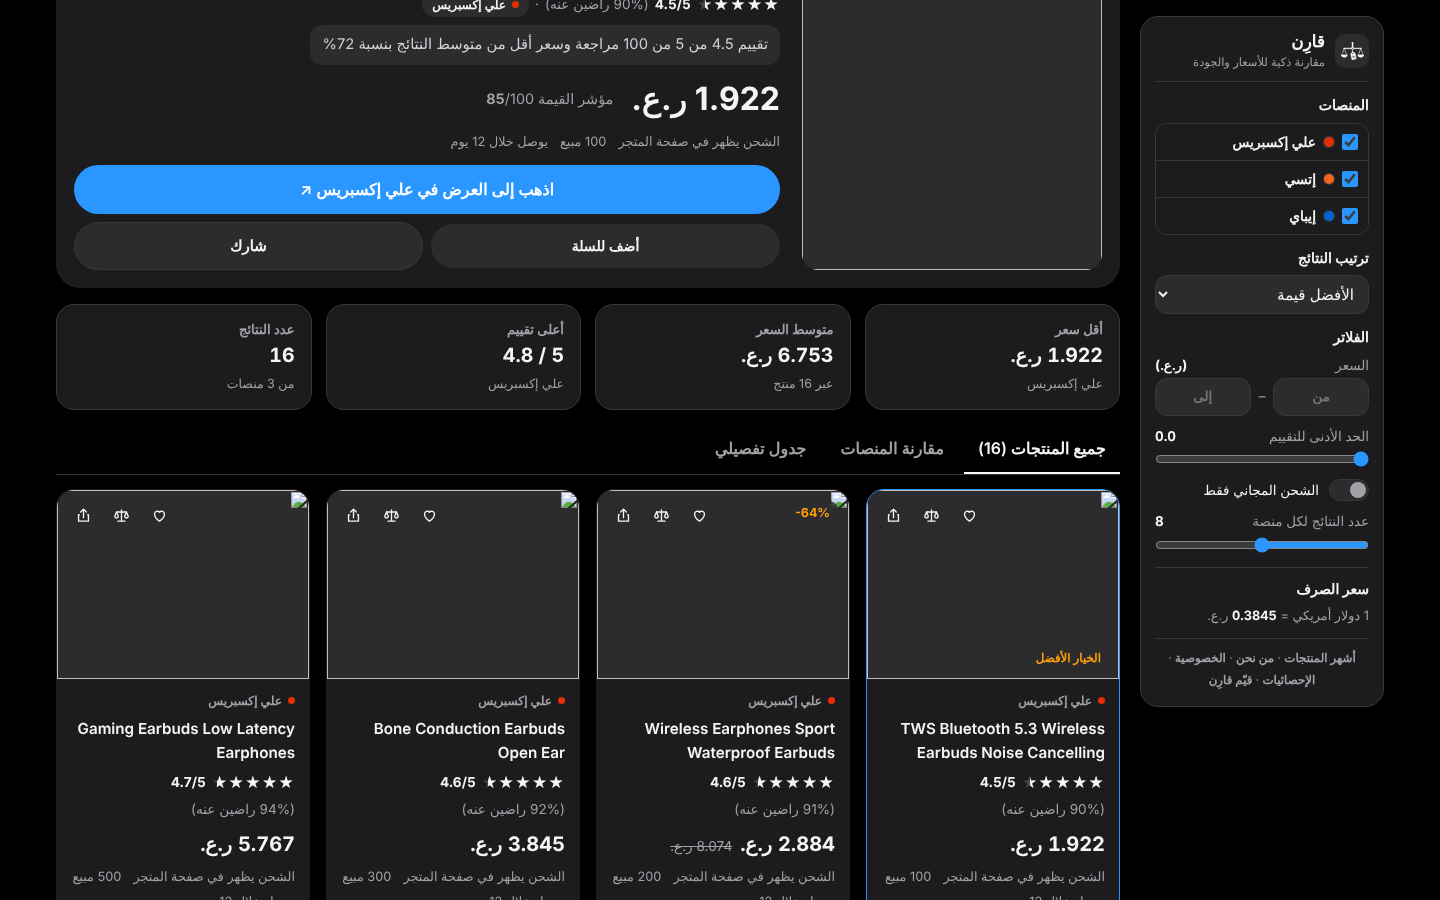
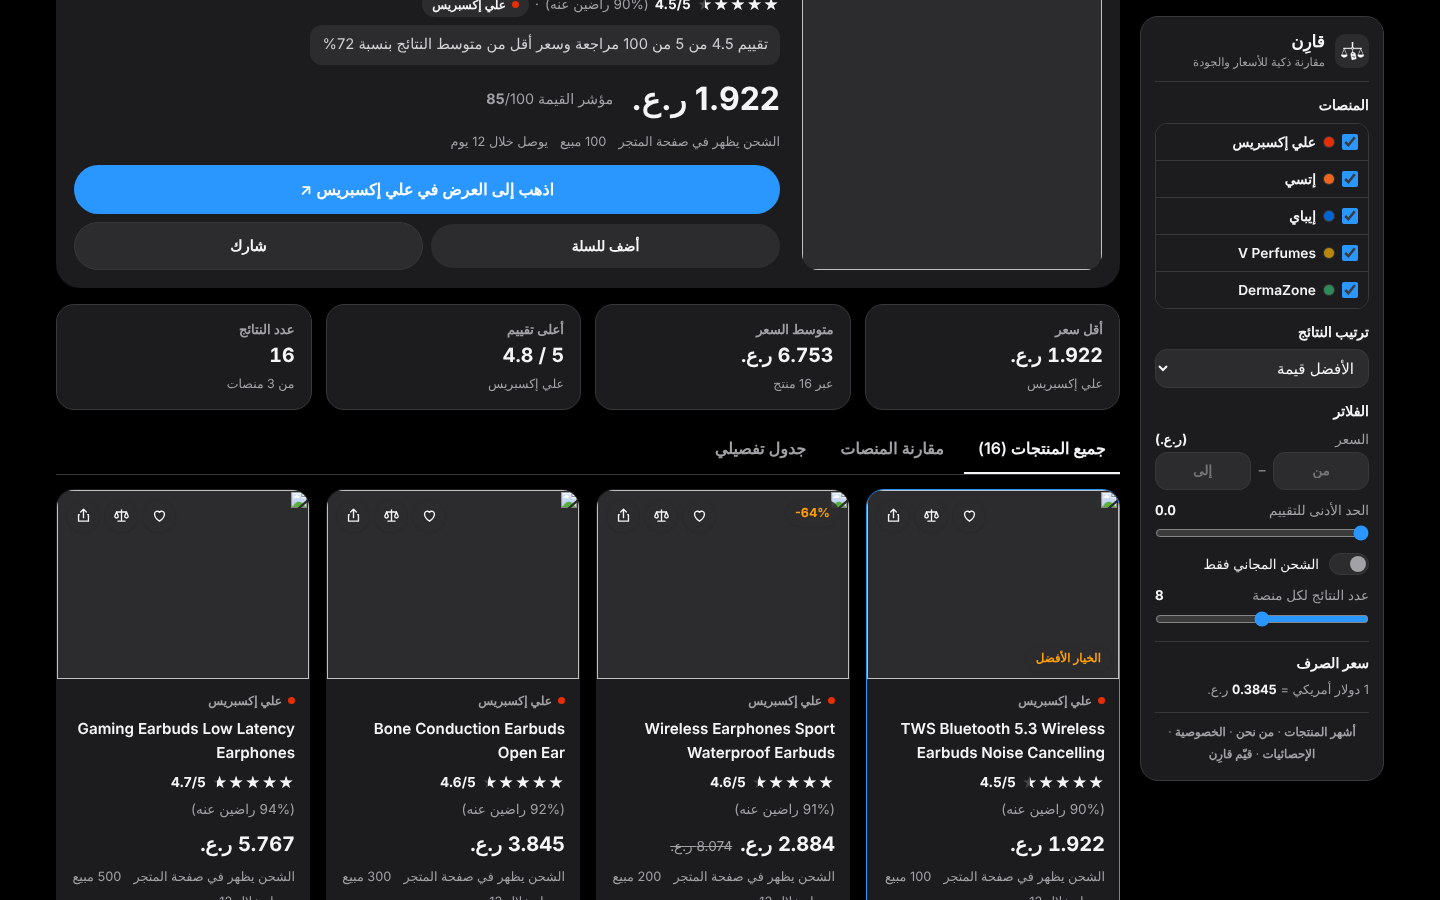
V Perfumes and DermaZone as real stores: daily product files from their public listings, searched like the others (affiliate links); hide empty partner baskets
Claude-Session: https://claude.ai/code/session_01JPcJJz9RvUid6aaScUD6z8

Changed region(s): [[0.7812, 0.28, 0.9688, 0.8711], [0.8125, 0.4356, 0.8438, 0.4667], [0.7812, 0.4667, 0.8125, 0.4978]]

diff --git a/index.html b/index.html
@@ -927,6 +927,11 @@ table.dt { min-width: 0; font-size: .76rem; }
                   url: q => 'https://www.etsy.com/search?q=' + qp(q) },
     ebay:       { name: 'إيباي',       color: '#0064D2', text: '#FFFFFF', bar: '#0064D2', tagline: 'جديد ومستعمل من العالم',
                   url: q => 'https://www.ebay.com/sch/i.html?_nkw=' + qp(q) },
+    // متاجر شريكة عن طريق Admitad: منتجاتها من ملفات نبنيها كل يوم (tools/partners/build.js)
+    vperfumes:  { name: 'V Perfumes',  color: '#B8860B', text: '#FFFFFF', bar: '#B8860B', tagline: 'عطور أصلية من عُمان',
+                  url: () => 'https://wbbsv.com/g/ax1gp3o9dz683a5815ddbe59cac899/?ulp=' + encodeURIComponent('https://www.vperfumes.com/om-en/collection/best-sellers') },
+    dermazone:  { name: 'DermaZone',   color: '#2E8B57', text: '#FFFFFF', bar: '#2E8B57', tagline: 'عناية بالبشرة ومنتجات كورية',
+                  url: q => 'https://bjpql.com/g/03how5od0x683a5815dd238e05a71e/?ulp=' + encodeURIComponent('https://www.dermazonestore.com/search?q=' + qp(q)) },
   };
   const KEYS = Object.keys(PLATFORMS);
 
@@ -1597,6 +1602,9 @@ table.dt { min-width: 0; font-size: .76rem; }
     "طقم كنب": "sofa set", "دله كهربائيه": "electric arabic coffee maker", "فرشات سياره": "car floor mats", "دعاسات": "car floor mats", "دواسات سياره": "car floor mats",
     "ليتات": "led lights", "ليتات سياره": "car led lights", "لعبه سياره": "toy car", "سياره لعبه": "toy car", "عطر عربي": "arabic perfume", "عطور عربيه": "arabic perfume",
     "حامل مصحف": "quran stand", "عطر رجالي فرنسي": "men perfume", "عطر فرنسي رجالي": "men perfume", "عطر نسائي فرنسي": "women perfume", "لعبه تعليميه": "educational toys", "العاب تعليميه": "educational toys", "ليت": "led lights",
+    "ديور": "dior", "عطر ديور": "dior perfume", "شانيل": "chanel", "سوفاج": "sauvage", "ارماني": "armani", "فرزاتشي": "versace", "فيرساتشي": "versace", "توم فورد": "tom ford",
+    "هوجو بوس": "hugo boss", "مونت بلانك": "montblanc", "بربري": "burberry", "كارولينا هيريرا": "carolina herrera", "رصاصي": "rasasi", "اجمل": "ajmal", "ارماف": "armaf", "ديفيدوف": "davidoff",
+    "سيرافي": "cerave", "لاروش بوزيه": "la roche posay", "ميديكيوب": "medicube", "كوزركس": "cosrx", "ذا اورديناري": "the ordinary", "بيوديرما": "bioderma",
     "لطافه": "lattafa", "عطر لطافه": "lattafa perfume", "كارتير": "cartier", "كارتيير": "cartier", "اوميغا": "omega", "اوميجا": "omega", "لويس فيتون": "louis vuitton", "لوي فيتون": "louis vuitton",
     "قوتشي": "gucci", "غوتشي": "gucci", "جوتشي": "gucci", "قوچي": "gucci", "راي بان": "ray-ban", "ريبان": "ray-ban", "طياره درون": "drone", "طياره تصوير": "camera drone",
     "اقلام ملونه": "colored pencils", "الوان خشبيه": "colored pencils", "اواني طبخ": "cookware set", "بن مختص": "specialty coffee beans", "قهوه مختصه": "specialty coffee beans",
@@ -1799,6 +1807,51 @@ table.dt { min-width: 0; font-size: .76rem; }
     }));
   }
   let etsyLive = false;
+
+  // ================= المتاجر الشريكة (V Perfumes و DermaZone) =================
+  const PARTNER_FEEDS = {
+    vperfumes: { file: 'data/p/vperfumes.json', perUsd: () => OMR_PER_USD, aff: 'https://wbbsv.com/g/ax1gp3o9dz683a5815ddbe59cac899/',
+      gate: /(عطر|عطور|عود|دهن|بخور|مبخر|مسك|perfume|parfum|fragrance|cologne|\boud\b|bakhoor|attar|\bmusk|eau de)/i,
+      generic: /^(perfumes?|fragrances?|scents?|parfums?|colognes?|smell)$/ },
+    dermazone: { file: 'data/p/dermazone.json', perUsd: () => 3.75, aff: 'https://bjpql.com/g/03how5od0x683a5815dd238e05a71e/',
+      gate: /(كريم|سيروم|واقي|مرطب|غسول|بشر|تونر|ماسك|فيتامين|كولاجين|مكمل|حب الشباب|skin|serum|sunscreen|sun ?block|spf|moistur|cleanser|toner|face mask|vitamin|collagen|supplement|cerave|la roche|bioderma|vichy|ordinary|cosrx|korean)/i,
+      generic: /^(products?|care|cream|original)$/ },
+  };
+  const P_STOP = new Set(['for', 'the', 'and', 'with', 'of', 'an', 'in', 'on', 'to', 'best', 'cheap', 'original', 'new', 'buy']);
+  const P_SYN = { men: '(\\bmen\\b|\\bman\\b|for him|homme|\\bmale\\b)', women: '(women|woman|for her|femme|female|ladies)', oil: '(oil|concentrated|attar|dehn)',
+    bakhoor: '(bakhoor|bukhoor|bakhour|incense|bakhoor set)', musk: '(musk|musc)', oud: '(\\boud|oudh|aoud)', sunscreen: '(sunscreen|sun ?block|sun ?screen|spf|واقي)',
+    moisturizer: '(moisturi[sz]|مرطب|hydrat)', cleanser: '(cleans|غسول|wash)', serum: '(serum|سيروم)' };
+  const partnerData = {};
+  // أسماء الماركات في كل متجر شريك (ملف صغير) عشان نعرف إن «ديور» أو «سيرافي» تخص متجر معيّن
+  let partnerIndex = null;
+  const partnerIndexP = fetch('data/p/index.json').then(r => r.ok ? r.json() : null).then(d => (partnerIndex = d)).catch(() => null);
+  const loadPartner = k => partnerData[k] || (partnerData[k] = fetch(PARTNER_FEEDS[k].file).then(r => r.ok ? r.json() : null).catch(() => null));
+  async function fetchPartner(k, query, limit) {
+    const F = PARTNER_FEEDS[k], en = (toEnglish(query) || query).toLowerCase(), ar = normalize(query);
+    await partnerIndexP;
+    const brands = partnerIndex && partnerIndex[k] && partnerIndex[k].brands || [];
+    const brandHit = en.split(/[^a-z0-9]+/).some(w => w.length > 3 && brands.some(b => b.split(/[^a-z0-9]+/).includes(w)));
+    if (!F.gate.test(query) && !F.gate.test(en) && !brandHit) return [];
+    const d = await loadPartner(k);
+    if (!d || !Array.isArray(d.items)) return [];
+    const toks = en.split(/[^a-z0-9]+/).filter(w => w.length > 1 && !P_STOP.has(w) && !F.generic.test(w));
+    const res = toks.map(w => new RegExp(P_SYN[w] || ('\\b' + w.replace(/[.*+?^${}()|[\]\\]/g, '\\$&')), 'i'));
+    const arToks = /[\u0600-\u06FF]/.test(ar) ? ar.split(' ').map(w => w.replace(/^ال(?=..)/, '')).filter(w => w.length > 1) : [];
+    const out = [];
+    for (const [t, price, img, url, tags] of d.items) {
+      const text = t + ' | ' + tags;
+      const okEn = res.every(r => r.test(text));
+      const okAr = k === 'dermazone' && arToks.length && arToks.every(w => normalize(text).includes(w));
+      if (!(okEn || okAr)) continue;
+      const usd = price / F.perUsd();
+      out.push({ platform: k, title: t, price: usd, unrated: true, rating: PRIOR_RATING, reviews: 0,
+        url: safeUrl(F.aff + '?ulp=' + encodeURIComponent(url)), image: safeUrl(img) || placeholder('🛍', makeRng(k, t)),
+        original: null, orders: null, shipping: '', freeShip: false, nativePrice: null, real: true,
+        shipCost: null, total: usd, score: 0, adj: 0, badges: [] });
+      if (out.length >= Math.max(limit, 40)) break;
+    }
+    return out;
+  }
 
   // صور علي إكسبرس أحيانًا تبدأ بـ http:// أو // فنحوّلها إلى https
   const fixImg = u => typeof u === 'string' ? u.trim().replace(/^\/\//, 'https://').replace(/^http:\/\//, 'https://') : '';
@@ -2570,14 +2623,6 @@ table.dt { min-width: 0; font-size: .76rem; }
   function clearPrice() { state.priceMin = state.priceMax = null; $('priceMin').value = ''; $('priceMax').value = ''; priceBox(); render(); }
   // متاجر شريكة (Admitad): تطلع لما يكون البحث من نوعها، برابط تسويق بالعمولة
   const PARTNERS = [
-    { name: 'V Perfumes', dot: '#B8860B', test: /(عطر|عطور|عود|دهن|بخور|مبخر|مسك|perfume|parfum|fragrance|cologne|\boud\b|bakhoor|attar|\bmusk)/i,
-      line: 'عطور أصلية من متجر V Perfumes في عُمان، بالريال العماني', base: 'https://wbbsv.com/g/ax1gp3o9dz683a5815ddbe59cac899/',
-      target: (q, en) => { const loc = LANG === 'ar' ? 'om-ar' : 'om-en', t = q + ' ' + en;
-        const cat = /بخور|مبخر|bakhoor|incense/i.test(t) ? 'category/bakhoor-set' : /دهن|oil|attar/i.test(t) ? 'category/perfume-oils'
-          : /نسائ|نساء|women|ladies|female/i.test(t) ? 'category/perfumes-for-women' : /رجال|men\b|male/i.test(t) ? 'category/perfumes-for-men' : 'collection/best-sellers';
-        return `https://www.vperfumes.com/${loc}/${cat}`; } },
-    { name: 'DermaZone', dot: '#2E8B57', test: /(كريم|سيروم|واقي شمس|واقي الشمس|مرطب|غسول|بشره|بشرة|حبوب الوجه|skin ?care|serum|sunscreen|moisturi[sz]er|cleanser|cerave|la roche|bioderma|vichy|the ordinary)/i,
-      line: 'منتجات عناية بالبشرة أصلية من DermaZone', base: 'https://bjpql.com/g/03how5od0x683a5815dd238e05a71e/' },
     { name: 'Woodestic', dot: '#8B5A2B', test: /(خشب|خشبي|wooden|\bwood\b)/i,
       line: 'ساعات ونظارات وإكسسوارات خشب من Woodestic', base: 'https://naiawork.com/g/do86ucnzhx683a5815ddc586cc6aee/' },
   ];
@@ -3005,6 +3050,9 @@ table.dt { min-width: 0; font-size: .76rem; }
       } else if (k === 'ebay' && EBAY_API) {
         try { results[k] = await fetchEbay(query, FETCH_N); }
         catch (e) { console.warn(e); results[k] = []; }  // ما نعرض منتجات مزيّفة باسم إيباي
+      } else if (PARTNER_FEEDS[k]) {
+        try { results[k] = await fetchPartner(k, query, FETCH_N); }
+        catch (e) { results[k] = []; }
       } else results[k] = [];
       const row = $('st-' + k);
       if (row && id === searchId) row.innerHTML = `<span class="ok">✓</span>${PLATFORMS[k].name}: ${results[k].length} منتج`;
@@ -3034,7 +3082,7 @@ table.dt { min-width: 0; font-size: .76rem; }
     await Promise.all(KEYS.map(async k => {
       try {
         results[k] = k === 'aliexpress' ? await fetchAli(query, FETCH_N) : k === 'etsy' ? await fetchEtsy(query, FETCH_N)
-          : (k === 'ebay' && EBAY_API) ? await fetchEbay(query, FETCH_N) : [];
+          : (k === 'ebay' && EBAY_API) ? await fetchEbay(query, FETCH_N) : PARTNER_FEEDS[k] ? await fetchPartner(k, query, FETCH_N) : [];
       } catch (e) { results[k] = []; }
     }));
     const all = KEYS.flatMap(k => results[k]);
@@ -3085,7 +3133,7 @@ table.dt { min-width: 0; font-size: .76rem; }
       });
       const got = items.filter(x => x.p);
       return { k, items, custom, got: got.length, total: got.reduce((s, x) => s + tot(x.p), 0), avg: got.length ? got.reduce((s, x) => s + x.p.score, 0) / got.length : 0 };
-    });
+    }).filter(b => b.got > 0 || !PARTNER_FEEDS[b.k]);  // المتاجر الشريكة تطلع بس لما يكون عندها شي من السلة
     state.basket.bs = bs;
     const maxGot = Math.max(0, ...bs.map(b => b.got));
     const pool = bs.filter(b => b.got === maxGot && b.got > 0);

diff --git a/tools/partners/build.js b/tools/partners/build.js
@@ -1,0 +1,108 @@
+// يبني ملفات منتجات المتاجر الشريكة (Admitad) لقارِن: V Perfumes (عُمان) و DermaZone.
+// node tools/partners/build.js <out-dir>
+// الناتج: <out>/vperfumes.json و <out>/dermazone.json بشكل مضغوط:
+//   { updated, cur, items: [[title, price, image, url, tags], ...], brands: [...] }
+const fs = require('fs'), path = require('path');
+const OUT = process.argv[2] || 'partners';
+const UA = 'Mozilla/5.0 (compatible; QarinBot/1.0; +https://abtkar2011-bot.github.io/Qarin/about.html)';
+const sleep = ms => new Promise(r => setTimeout(r, ms));
+async function get(url, tries = 3) {
+  for (let i = 0; i < tries; i++) {
+    try {
+      const r = await fetch(url, { headers: { 'user-agent': UA, 'accept-language': 'en' } });
+      if (r.status === 404) return null;
+      if (r.ok) return await r.text();
+    } catch (e) { /* نعيد المحاولة */ }
+    await sleep(1500 * (i + 1));
+  }
+  return null;
+}
+const locs = xml => [...String(xml || '').matchAll(/<loc>\s*([^<\s]+)\s*<\/loc>/g)].map(m => m[1]);
+const slugWords = u => (u.split('/').pop() || '').replace(/-/g, ' ');
+
+// ---------- V Perfumes: صفحات الأقسام والمجموعات والماركات (كل صفحة فيها 24 منتج في JSON-LD) ----------
+function parseVListing(html) {
+  const out = [];
+  for (const m of String(html || '').matchAll(/<script type="application\/ld\+json"[^>]*>([\s\S]*?)<\/script>/g)) {
+    let d; try { d = JSON.parse(m[1]); } catch (e) { continue; }
+    if (!d || d['@type'] !== 'ItemList' || !Array.isArray(d.itemListElement)) continue;
+    for (const el of d.itemListElement) {
+      const it = el && el.item; if (!it || !it.url || !it.name) continue;
+      const of = it.offers || {}; const price = +of.price;
+      if (!(price > 0) || of.priceCurrency !== 'OMR') continue;
+      if (/OutOfStock|SoldOut|Discontinued/i.test(of.availability || '')) continue;
+      out.push({ t: String(it.name).trim(), p: price, i: String(it.image || ''), u: String(it.url), b: (it.brand && it.brand.name) || '' });
+    }
+  }
+  return out;
+}
+async function vperfumes() {
+  const V = 'https://www.vperfumes.com/om-en';
+  // أول شي المجموعات (الأكثر مبيعًا أولًا) ثم الأقسام ثم الماركات
+  const pages = [...locs(await get(V + '/sitemaps/collections/0.xml')), ...locs(await get(V + '/sitemaps/categories/0.xml')), ...locs(await get(V + '/sitemaps/brands/0.xml'))]
+    .filter(u => /\/om-en\/(collection|category|brands)\//.test(u));
+  const best = pages.findIndex(u => /best-sellers/.test(u)); if (best > 0) pages.unshift(pages.splice(best, 1)[0]);
+  console.log('vperfumes pages', pages.length);
+  const map = new Map(); let done = 0;
+  const work = async () => {
+    while (pages.length) {
+      const u = pages.shift();
+      const items = parseVListing(await get(u));
+      const tag = slugWords(u);
+      for (const it of items) {
+        const k = it.u; const cur = map.get(k);
+        if (cur) { if (!cur.tags.includes(tag)) cur.tags.push(tag); }
+        else map.set(k, { ...it, tags: [tag] });
+      }
+      if (++done % 50 === 0) console.log('  pages', done, 'products', map.size);
+      await sleep(250);
+    }
+  };
+  await Promise.all([work(), work(), work()]);
+  const items = [...map.values()];
+  return { updated: new Date().toISOString(), cur: 'OMR', store: 'https://www.vperfumes.com',
+    brands: [...new Set(items.map(x => x.b.toLowerCase()).filter(b => b && b !== 'v perfumes'))],
+    items: items.map(x => [x.t, x.p, x.i, x.u, (x.b + ' | ' + x.tags.join(' | ')).toLowerCase()]) };
+}
+
+// ---------- DermaZone: متجر Shopify، الكتالوج كامل من products.json ----------
+function parseShopify(json, base) {
+  let d; try { d = JSON.parse(json); } catch (e) { return []; }
+  return (d.products || []).map(p => {
+    const vs = (p.variants || []).filter(v => v.available !== false);
+    if (!vs.length) return null;
+    const price = Math.min(...vs.map(v => +v.price).filter(x => x > 0));
+    const img = (p.images && p.images[0] && p.images[0].src) || '';
+    if (!(price > 0) || !img) return null;
+    const tags = Array.isArray(p.tags) ? p.tags.join(' ') : String(p.tags || '');
+    return { t: String(p.title || '').trim(), p: price, i: img, u: base + '/products/' + p.handle, b: String(p.vendor || ''), ty: String(p.product_type || ''), tags };
+  }).filter(Boolean);
+}
+async function dermazone() {
+  const B = 'https://www.dermazonestore.com', all = [];
+  for (let page = 1; page <= 60; page++) {
+    const items = parseShopify(await get(`${B}/products.json?limit=250&page=${page}`), B);
+    if (!items.length) break;
+    all.push(...items); console.log('dermazone page', page, all.length);
+    await sleep(600);
+  }
+  return { updated: new Date().toISOString(), cur: 'SAR', store: B,
+    brands: [...new Set(all.map(x => x.b.toLowerCase()).filter(Boolean))],
+    items: all.map(x => [x.t, x.p, x.i, x.u, (x.b + ' | ' + x.ty + ' | ' + x.tags).toLowerCase()]) };
+}
+
+module.exports = { parseVListing, parseShopify };
+if (require.main === module) (async () => {
+  fs.mkdirSync(OUT, { recursive: true });
+  const index = {};
+  for (const [name, fn] of [['vperfumes', vperfumes], ['dermazone', dermazone]]) {
+    try {
+      const data = await fn();
+      if (data.items.length < 20) throw new Error('too few items: ' + data.items.length);
+      fs.writeFileSync(path.join(OUT, name + '.json'), JSON.stringify(data));
+      console.log(name, 'items', data.items.length, 'size', fs.statSync(path.join(OUT, name + '.json')).size);
+    } catch (e) { console.log(name, 'FAILED', e.message, '(keeping the previous file if any)'); }
+    try { const d = JSON.parse(fs.readFileSync(path.join(OUT, name + '.json'), 'utf8')); index[name] = { updated: d.updated, n: d.items.length, brands: d.brands }; } catch (e) { /* ما في ملف */ }
+  }
+  fs.writeFileSync(path.join(OUT, 'index.json'), JSON.stringify(index));
+})();
